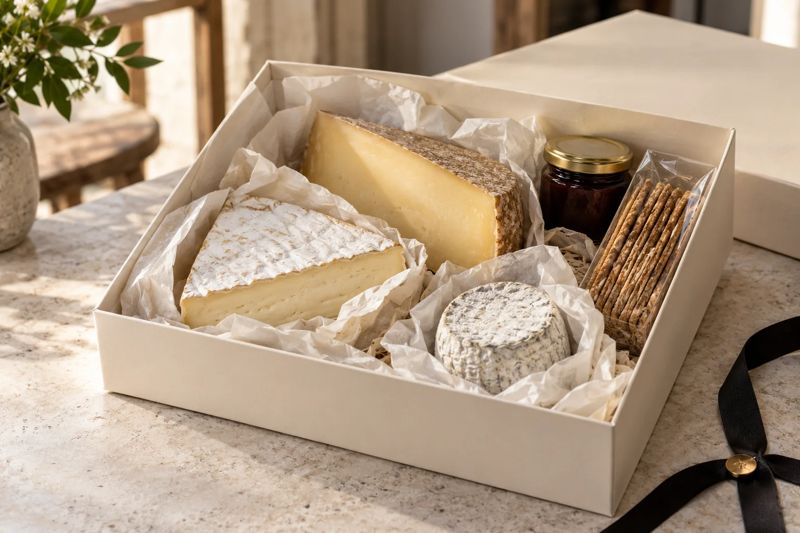
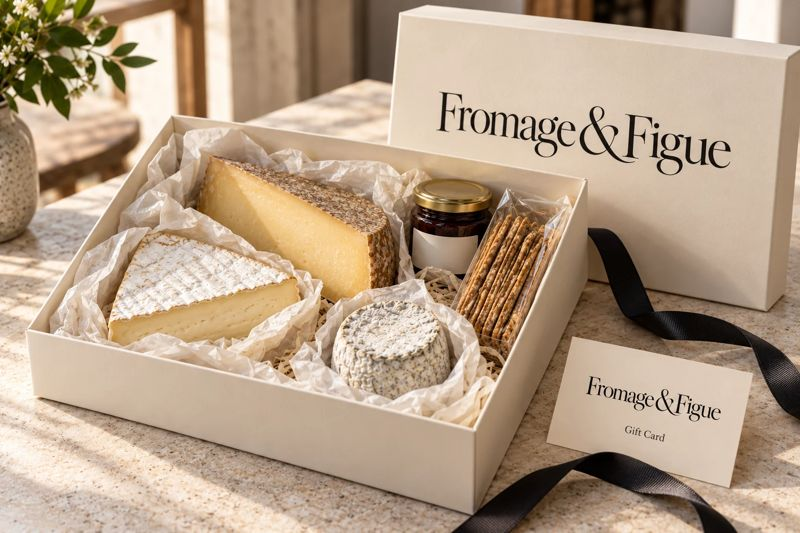
Use branded board and gift box photos
Claude-Session: https://claude.ai/code/session_01D1atEMVhexu4SPSkrcZbWu

diff --git a/index.html b/index.html
@@ -59,12 +59,12 @@
       <p class="section-intro">Cheese for the table, or for someone else. Ask us about boards for gatherings and boxed gifts, wrapped and ready to go.</p>
       <div class="gift-grid">
         <figure>
-          <img src="assets/board.jpg" srcset="assets/board-800.jpg 800w, assets/board.jpg 1536w" sizes="(max-width: 800px) 100vw, 520px" loading="lazy" width="1536" height="1024" alt="A cheese board with brie, aged cheese, blue cheese, goat cheese, grapes, walnuts and a glass of red wine">
+          <img src="assets/board.jpg" srcset="assets/board-800.jpg 800w, assets/board.jpg 1536w" sizes="(max-width: 800px) 100vw, 520px" loading="lazy" width="1536" height="1024" alt="An oak cheese board engraved with the Fromage &amp; Figue logo, with brie, aged cheese, blue cheese, goat cheese, grapes and bread">
           <figcaption>Boards for sharing</figcaption>
         </figure>
         <figure>
-          <img src="assets/giftbox.jpg" srcset="assets/giftbox-800.jpg 800w, assets/giftbox.jpg 1536w" sizes="(max-width: 800px) 100vw, 520px" loading="lazy" width="1536" height="1024" alt="A cream gift box with brie, aged cheese, goat cheese, fig jam and crackers">
-          <figcaption>Gift boxes</figcaption>
+          <img src="assets/giftbox.jpg" srcset="assets/giftbox-800.jpg 800w, assets/giftbox.jpg 1536w" sizes="(max-width: 800px) 100vw, 520px" loading="lazy" width="1536" height="1024" alt="A Fromage &amp; Figue gift box with brie, aged cheese, goat cheese, fig jam and crackers, beside a gift card">
+          <figcaption>Gift boxes and gift cards</figcaption>
         </figure>
       </div>
       <a class="button" href="mailto:hello@example.com?subject=Boards%20and%20gift%20boxes">Enquire by email</a>
